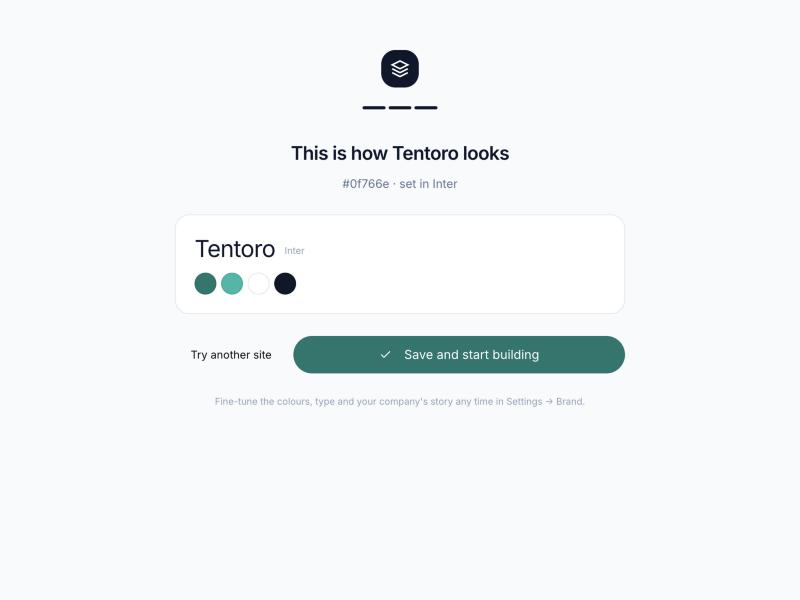
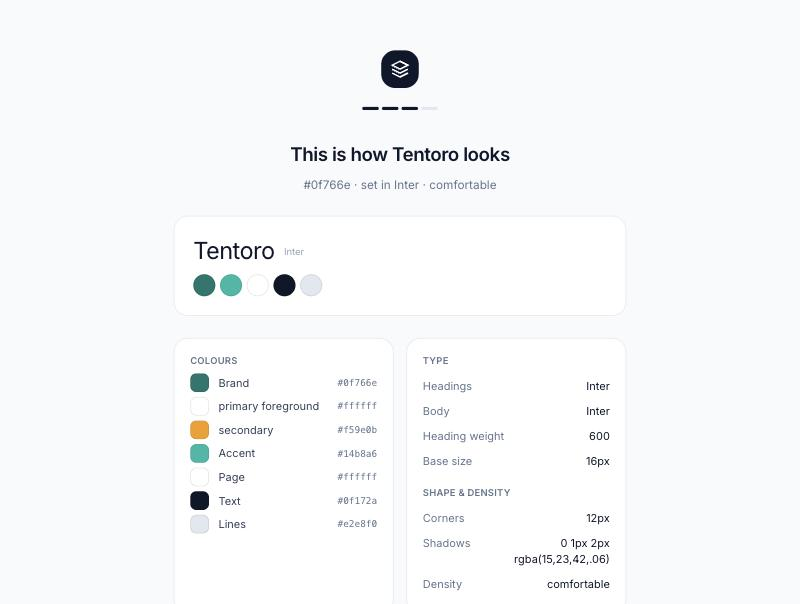
The look screen shows everything the site read found
Colours with their role and hex, each typeface with its job and weight,
corners, shadows and density, the voice the read inferred (industry,
audience, tone, voice, values), the brand guidelines every agent will be
shown (readable in place), and where it was all read from — so a wrong
value is seen here, before the first app wears it, not after. The About
screen carries the inferred details as editable fields beneath the three
answers.

diff --git a/frontend/src/app/start/page.tsx b/frontend/src/app/start/page.tsx
@@ -27,9 +27,9 @@ import { Input } from "@/components/ui/input";
 import { Label } from "@/components/ui/label";
 import { api, ApiError } from "@/lib/api";
 import { useAuthStore } from "@/stores/auth";
-import { type BrandIdentity, type BrandProfile, brand, describeDesign } from "@/lib/brand";
+import { COLOR_ROLES, type BrandIdentity, type BrandProfile, brand, describeDesign } from "@/lib/brand";
 import { cleanedForSave } from "@/components/brand/BrandProfileEditor";
-import { DiscoveryQuestionField, useBrandLogo } from "@/components/brand/fields";
+import { DiscoveryQuestionField, IdentityDetailFields, ReadFromNote, useBrandLogo } from "@/components/brand/fields";
 import { PaletteStrip, ReadingSequence, TypeSpecimen } from "@/app/onboarding/moments";
 import { ACCOUNT_TYPES, ROLES, type AccountType, type MemberRole, badEmails, parseEmails, slugPreview, slugProblem } from "./lib";
 
@@ -59,6 +59,80 @@ function Mark() {
       <svg className="h-6 w-6" viewBox="0 0 24 24" fill="none" stroke="currentColor" strokeWidth="2">
         <path d="M12 2L2 7l10 5 10-5-10-5z" /><path d="M2 17l10 5 10-5" /><path d="M2 12l10 5 10-5" />
       </svg>
+    </div>
+  );
+}
+
+/** A row of the readout: a label and what was found, or "not found" said plainly. */
+function Found({ label, children }: { label: string; children: React.ReactNode }) {
+  return (
+    <div className="flex items-baseline justify-between gap-4 py-1.5 text-sm">
+      <span className="shrink-0 text-slate-500 dark:text-slate-400">{label}</span>
+      <span className="min-w-0 text-right text-slate-900 dark:text-white">{children ?? <span className="text-slate-400">not found</span>}</span>
+    </div>
+  );
+}
+
+const ROLE_LABEL: Record<string, string> = {
+  ...Object.fromEntries(COLOR_ROLES.map((r) => [r.key, r.label])),
+  primaryForeground: "On brand", secondary: "Secondary", muted: "Muted", mutedForeground: "Muted text", card: "Cards",
+};
+const ROLE_ORDER = ["primary", "primaryForeground", "secondary", "accent", "background", "foreground", "muted", "border"];
+
+/** Everything the site read produced, in the order it matters. */
+function BrandReadout({ profile }: { profile: BrandProfile }) {
+  const design = profile.design ?? {};
+  const identity = profile.identity ?? {};
+  const colors = Object.entries(design.colors ?? {}).filter(([, v]) => typeof v === "string" && v)
+    .sort(([a], [b]) => (ROLE_ORDER.indexOf(a) + 1 || 99) - (ROLE_ORDER.indexOf(b) + 1 || 99));
+  const type = design.typography ?? {};
+  const radius = design.radius ?? {};
+  const elevation = design.elevation ?? {};
+  const voice = [["Industry", identity.industry], ["Audience", identity.audience], ["Tone", identity.tone], ["Voice", identity.voice], ["Values", identity.values]]
+    .filter(([, v]) => v) as [string, string][];
+  const card = "rounded-2xl border border-slate-200 bg-white p-5 dark:border-slate-800 dark:bg-slate-900";
+  const head = "mb-2 text-xs font-semibold uppercase tracking-wide text-slate-500 dark:text-slate-400";
+  return (
+    <div data-brand-readout="" className="grid gap-4 sm:grid-cols-2">
+      <section className={card} aria-label="Colours">
+        <h2 className={head}>Colours</h2>
+        {colors.length === 0 && <p className="text-sm text-slate-400">No colours could be read.</p>}
+        <ul className="space-y-1.5">
+          {colors.map(([key, hex]) => (
+            <li key={key} className="flex items-center gap-3 text-sm">
+              <span aria-hidden="true" className="h-6 w-6 shrink-0 rounded-md border border-black/10" style={{ background: hex }} />
+              <span className="flex-1 text-slate-700 dark:text-slate-200">{ROLE_LABEL[key] ?? key.replace(/([A-Z])/g, " $1").toLowerCase()}</span>
+              <code className="text-xs text-slate-500">{hex}</code>
+            </li>
+          ))}
+        </ul>
+      </section>
+      <section className={card} aria-label="Type">
+        <h2 className={head}>Type</h2>
+        <Found label="Headings"><span style={{ fontFamily: type.fontFamilyHeading }}>{type.fontFamilyHeading}</span></Found>
+        <Found label="Body"><span style={{ fontFamily: type.fontFamilyBase }}>{type.fontFamilyBase}</span></Found>
+        {type.fontWeightHeading && <Found label="Heading weight">{type.fontWeightHeading}</Found>}
+        {type.fontSizeBase && <Found label="Base size">{type.fontSizeBase}</Found>}
+        <h2 className={`${head} mt-4`}>Shape & density</h2>
+        <Found label="Corners">{radius.md || radius.base || Object.values(radius)[0]}</Found>
+        <Found label="Shadows">{elevation.md || elevation.base || Object.values(elevation)[0]}</Found>
+        <Found label="Density">{design.informationDensity}</Found>
+      </section>
+      <section className={card} aria-label="Voice">
+        <h2 className={head}>Voice</h2>
+        {voice.length === 0 && <p className="text-sm text-slate-400">Nothing about the voice could be read.</p>}
+        {voice.map(([label, value]) => <Found key={label} label={label}>{value}</Found>)}
+      </section>
+      <section className={card} aria-label="Brand guidelines">
+        <h2 className={head}>Brand guidelines</h2>
+        <p className="text-sm text-slate-600 dark:text-slate-300">What every agent that builds for you will be shown about your company and its design language.</p>
+        {profile.design_md ? (
+          <details className="mt-2 group">
+            <summary className="cursor-pointer text-sm font-medium text-slate-900 dark:text-white">Read the guidelines</summary>
+            <pre className="mt-2 max-h-64 overflow-auto whitespace-pre-wrap rounded-md bg-slate-50 p-3 text-xs leading-relaxed text-slate-700 dark:bg-slate-950 dark:text-slate-300">{profile.design_md}</pre>
+          </details>
+        ) : <p className="mt-2 text-sm text-slate-400">Written once the profile is saved.</p>}
+      </section>
     </div>
   );
 }
@@ -341,6 +415,13 @@ function StartInner() {
                     </div>
                   </div>
                 </div>
+
+                {/* EVERYTHING THE READ FOUND, laid out so a wrong value is seen here
+                    rather than discovered in the first app: each colour with its
+                    role and hex, each typeface with its job, shape and density,
+                    the voice, and the guidelines the agents will be shown. */}
+                <BrandReadout profile={profile} />
+                <ReadFromNote sourceUrl={profile.source_url} rendered={profile.evidence?.rendered} />
                 {error && <p className="text-sm text-red-600 dark:text-red-400">{error}</p>}
                 <div className="flex items-center gap-2">
                   <Button type="button" variant="ghost" className="h-12 rounded-full px-5" onClick={() => { setProfile(null); setSite(""); }} disabled={busy}>Try another site</Button>
@@ -368,6 +449,10 @@ function StartInner() {
                 <DiscoveryQuestionField key={key} which={key} rows={3} value={(identity[key] as string) ?? ""}
                                         onChange={(v) => setIdentity((i) => ({ ...i, [key]: v }))} />
               ))}
+              <div className="border-t border-slate-200 pt-5 dark:border-slate-800">
+                <p className="mb-3 text-sm font-medium text-slate-700 dark:text-slate-300">What the read inferred around them</p>
+                <IdentityDetailFields identity={identity} onChange={(key, value) => setIdentity((i) => ({ ...i, [key]: value }))} />
+              </div>
             </div>
             {error && <p className="text-sm text-red-600 dark:text-red-400">{error}</p>}
             <div className="flex items-center gap-2">
